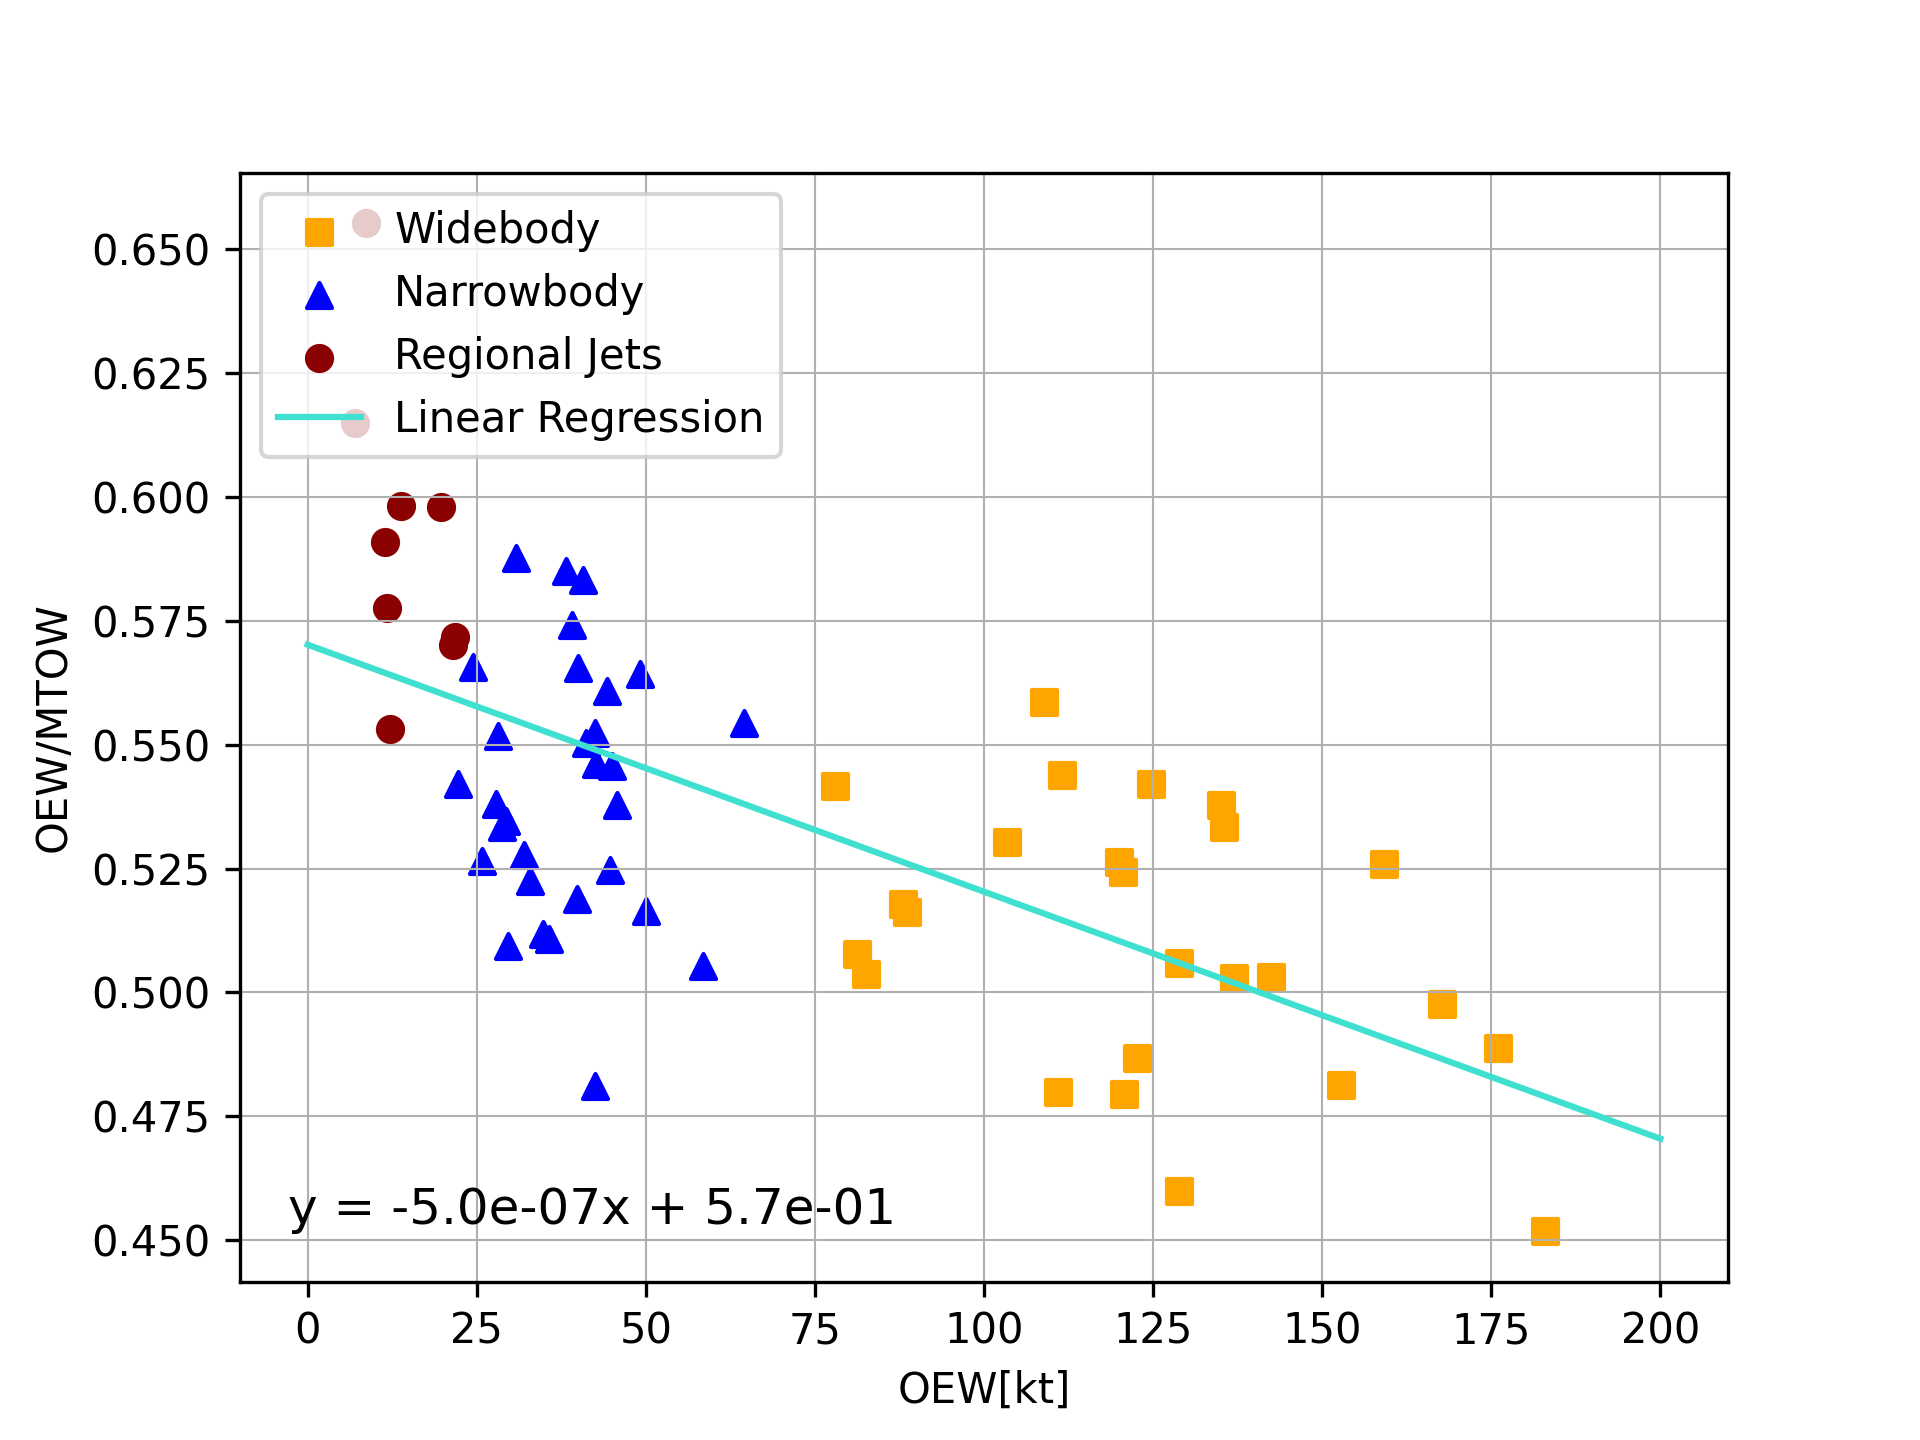
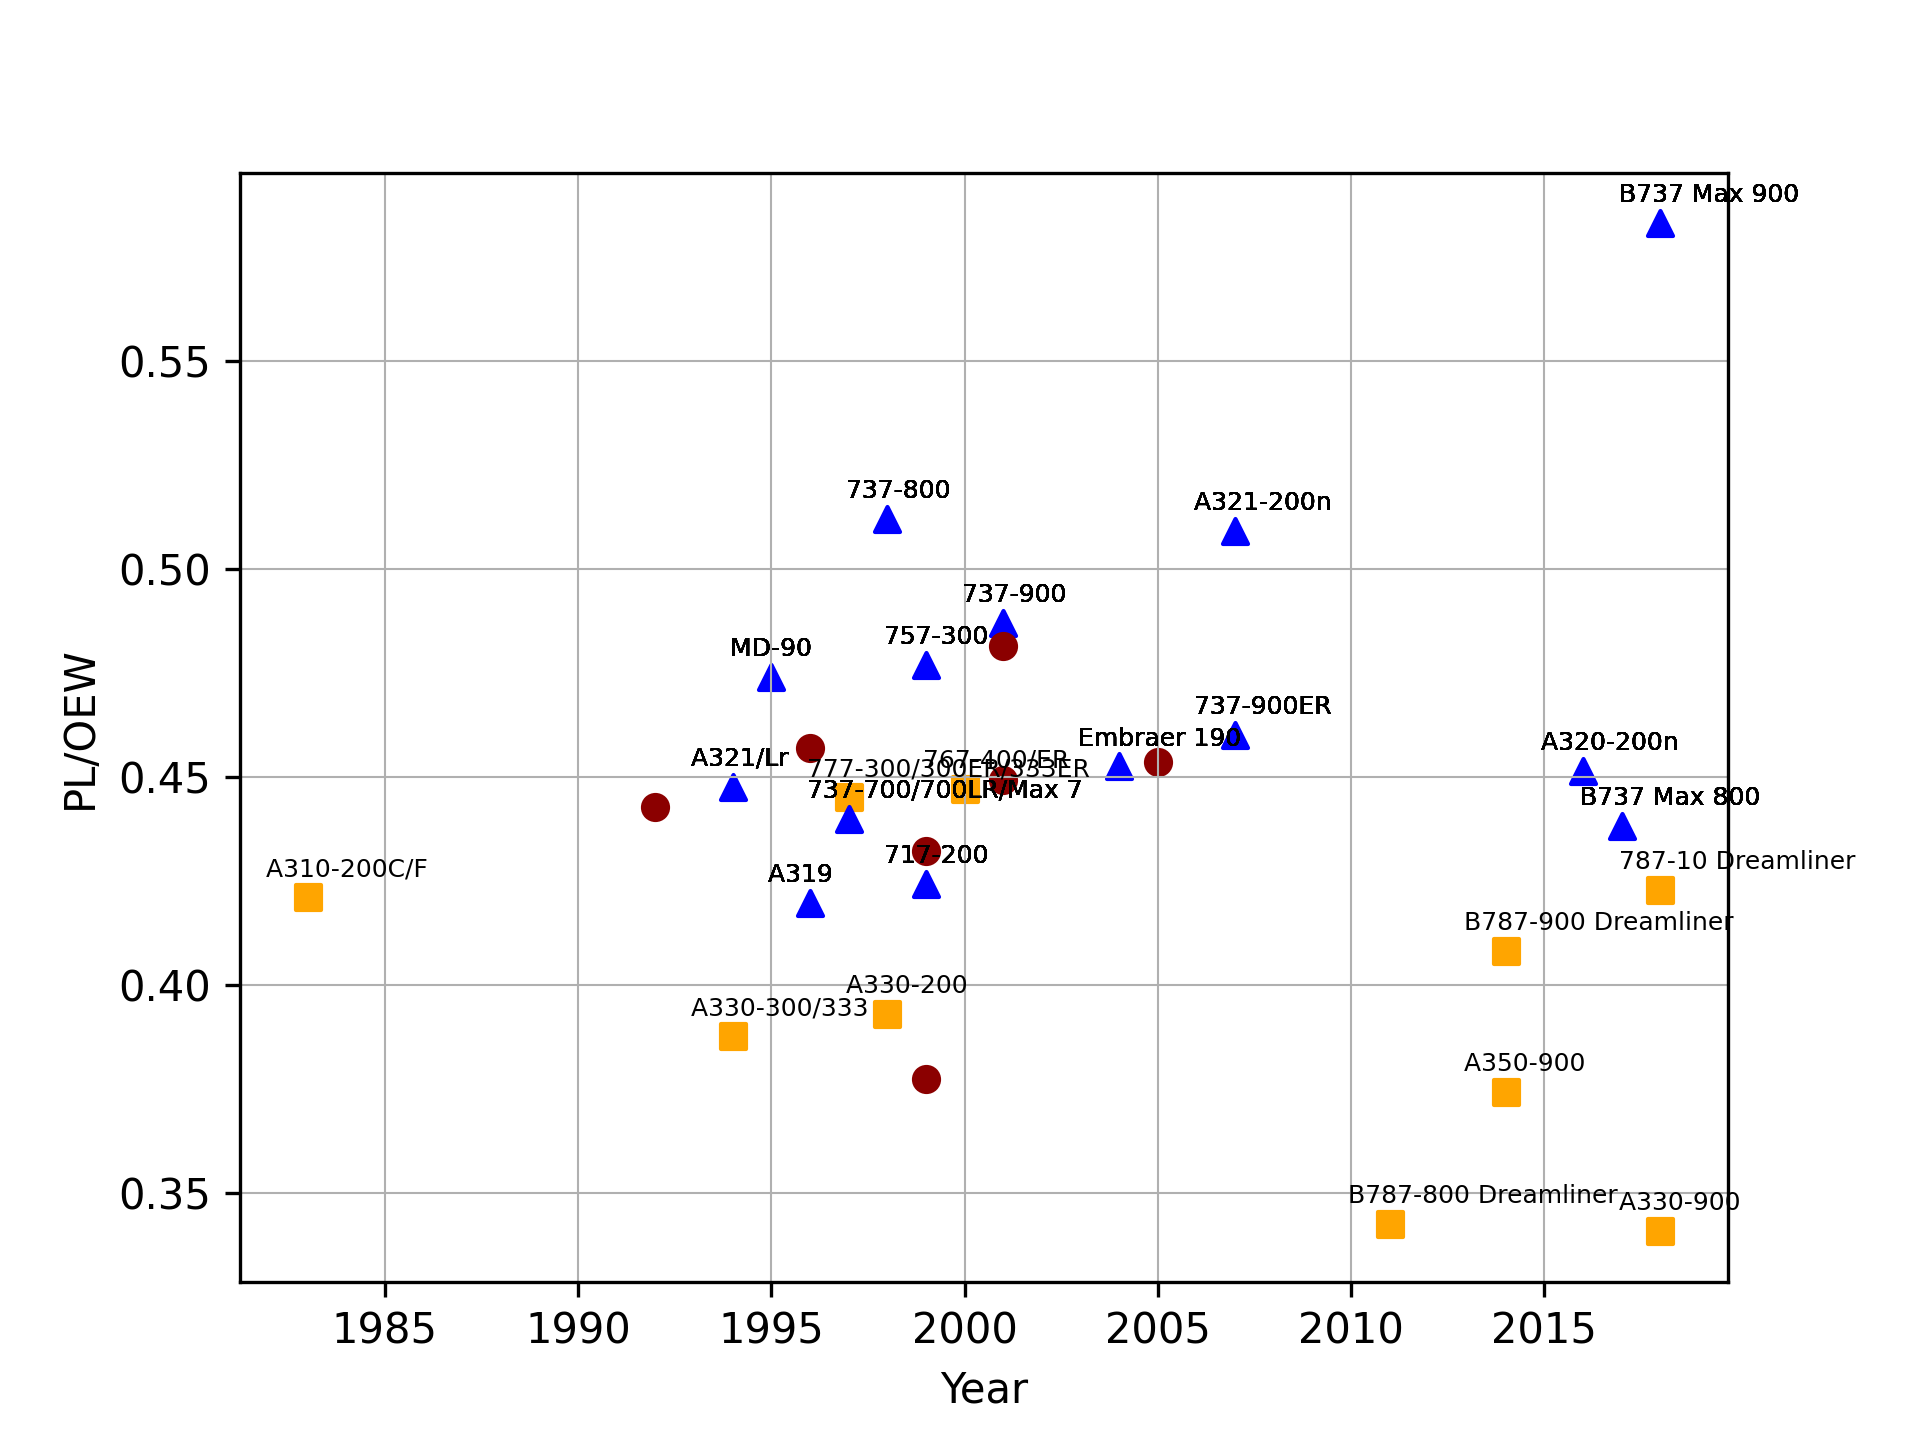
Code update, added some graphs, tried plot payload vs range, to see operability range inside payload-range diagram limit

diff --git a/structural/pl_per_oew.py b/structural/pl_per_oew.py
@@ -1,0 +1,89 @@
+import pandas as pd
+import numpy as np
+import matplotlib.pyplot as plt
+from tools import aircraft_type
+from tools import plot
+
+new_aircrafts = aircraft_type.type()
+new_aircrafts['PL/OEW'] = (new_aircrafts['MZFW']-new_aircrafts['OEW'])/new_aircrafts['OEW']
+new_aircrafts['MTOW/MZFW'] = new_aircrafts['MTOW']/new_aircrafts['MZFW']
+new_aircrafts = new_aircrafts.dropna(subset='PL/OEW')
+
+medium_aircrafts = new_aircrafts.loc[(new_aircrafts['Type']=='Narrow')]
+large_aircrafts = new_aircrafts.loc[(new_aircrafts['Type']=='Wide')]
+regional_aircrafts = new_aircrafts.loc[(new_aircrafts['Type']=='Regional')]
+
+# Add a subplot
+fig = plt.figure(dpi=300)
+y_label = 'PL/OEW'
+x_label = 'Year'
+
+ax = fig.add_subplot(1, 1, 1)
+ax.scatter(large_aircrafts['YOI'], large_aircrafts['PL/OEW'], marker='s',color='orange', label='Widebody')
+ax.scatter(medium_aircrafts['YOI'], medium_aircrafts['PL/OEW'], marker='^',color='blue', label='Narrowbody')
+ax.scatter(regional_aircrafts['YOI'], regional_aircrafts['PL/OEW'], marker='o',color='darkred', label='Regional Jets')
+
+for i, row in large_aircrafts.iterrows():
+    plt.annotate(row['Name'], (row['YOI'], row['PL/OEW']),
+                 fontsize=6, xytext=(-10, 5),
+                 textcoords='offset points')
+    for i, row in medium_aircrafts.iterrows():
+        plt.annotate(row['Name'], (row['YOI'], row['PL/OEW']),
+                     fontsize=6, xytext=(-10, 5),
+                     textcoords='offset points')
+
+plot.plot_layout(None, x_label, y_label, ax)
+
+plt.savefig('Graphs\pl_per_oew.png')
+
+plt.show()
+
+# Add a subplot
+fig = plt.figure(dpi=300)
+y_label = 'OEW/MTOW'
+x_label = 'Year'
+
+ax = fig.add_subplot(1, 1, 1)
+ax.scatter(large_aircrafts['YOI'], large_aircrafts['OEW/MTOW'], marker='s',color='orange', label='Widebody')
+ax.scatter(medium_aircrafts['YOI'], medium_aircrafts['OEW/MTOW'], marker='^',color='blue', label='Narrowbody')
+ax.scatter(regional_aircrafts['YOI'], regional_aircrafts['OEW/MTOW'], marker='o',color='darkred', label='Regional Jets')
+
+for i, row in large_aircrafts.iterrows():
+    plt.annotate(row['Name'], (row['YOI'], row['OEW/MTOW']),
+                 fontsize=6, xytext=(-10, 5),
+                 textcoords='offset points')
+    for i, row in medium_aircrafts.iterrows():
+        plt.annotate(row['Name'], (row['YOI'], row['OEW/MTOW']),
+                     fontsize=6, xytext=(-10, 5),
+                     textcoords='offset points')
+
+plot.plot_layout(None, x_label, y_label, ax)
+
+plt.savefig('Graphs\oew_per_mtow.png')
+
+plt.show()
+
+# Add a subplot
+fig = plt.figure(dpi=300)
+y_label = 'MTOW/MZFW'
+x_label = 'Year'
+
+ax = fig.add_subplot(1, 1, 1)
+ax.scatter(large_aircrafts['YOI'], large_aircrafts['MTOW/MZFW'], marker='s',color='orange', label='Widebody')
+ax.scatter(medium_aircrafts['YOI'], medium_aircrafts['MTOW/MZFW'], marker='^',color='blue', label='Narrowbody')
+ax.scatter(regional_aircrafts['YOI'], regional_aircrafts['MTOW/MZFW'], marker='o',color='darkred', label='Regional Jets')
+
+for i, row in large_aircrafts.iterrows():
+    plt.annotate(row['Name'], (row['YOI'], row['MTOW/MZFW']),
+                 fontsize=6, xytext=(-10, 5),
+                 textcoords='offset points')
+    for i, row in medium_aircrafts.iterrows():
+        plt.annotate(row['Name'], (row['YOI'], row['MTOW/MZFW']),
+                     fontsize=6, xytext=(-10, 5),
+                     textcoords='offset points')
+
+plot.plot_layout(None, x_label, y_label, ax)
+
+plt.savefig('Graphs\mtow_per_mzfw.png')
+
+plt.show()

diff --git a/other/payload.py b/other/payload.py
@@ -1,0 +1,90 @@
+import pandas as pd
+import numpy as np
+from tools import dict
+from tools import plot
+from tools import T2_preprocessing
+import matplotlib.pyplot as plt
+
+#load dictionaries
+airplanes_dict = dict.AirplaneModels().get_models()
+aircraftnames = dict.AircraftNames().get_aircraftnames()
+airplanes = airplanes_dict.keys()
+airlines = dict.USAirlines().get_airlines()
+
+
+#Data from December 2022, is also monthly available back to 1990.
+T100 = pd.read_csv(r"C:\Users\PRohr\Desktop\Masterarbeit\Data\T_T100_SEGMENT_US_CARRIER_ONLY.csv")
+AC_types = pd.read_csv(r"C:\Users\PRohr\Desktop\Masterarbeit\Data\L_AIRCRAFT_TYPE (1).csv")
+
+T100 = T100.loc[T100['CARRIER_GROUP'] == 3]
+# subgroup 1 for aircraft passenger configuration
+T100 = T100.loc[T100['AIRCRAFT_CONFIG'] == 1]
+# Use the 19 Airlines
+T100 = T100.loc[T100['UNIQUE_CARRIER_NAME'].isin(airlines)]
+T100 = pd.merge(T100, AC_types, left_on='AIRCRAFT_TYPE', right_on='Code')
+T100 = T100.loc[T100['Description'].isin(airplanes)]
+T100 = T100.loc[T100['DISTANCE']>=0]
+T100['SEATS']=T100['SEATS']/T100['DEPARTURES_PERFORMED']
+km = 1.60934
+T100['DISTANCE'] = T100['DISTANCE']*km
+T100['Calc PAYLOAD'] = T100['PASSENGERS']*100 + T100['PAYLOAD']*0.453592
+#T100 = T100.loc[T100['PAYLOAD']>=0]
+
+Boeing_737_900 = T100.loc[T100['Description'].isin(['Boeing 737-900', 'Boeing 737-900ER'])]
+kg = 0.453592
+Boeing_737_900['Calc PAYLOAD'] = Boeing_737_900['Calc PAYLOAD']*kg/Boeing_737_900['DEPARTURES_PERFORMED']
+#Boeing_737_900['DISTANCE']= Boeing_737_900['DISTANCE']/Boeing_737_900['DEPARTURES_PERFORMED']
+
+Boeing_737_900_standard= Boeing_737_900.loc[Boeing_737_900['Description']=='Boeing 737-900']
+Boeing_737_900_standard['Calc PAYLOAD'] = Boeing_737_900_standard['Calc PAYLOAD']+42901
+Boeing_737_900_longrange = Boeing_737_900.loc[Boeing_737_900['Description']=='Boeing 737-900ER']
+Boeing_737_900_longrange['Calc PAYLOAD'] = Boeing_737_900_longrange['Calc PAYLOAD']+44677
+
+payload_lr = [67721, 67721, 66678, 51700, 44677, 44677]  # payload in kg
+range_km_lr = [0, 3238, 4070, 8970, 10000, 0]  # range in km
+
+payload_sr = [62732, 62732, 58060, 42902, 42902]  # payload in kg
+range_km_sr = [0, 3700, 5180, 6600, 0]  # range in km
+# Plot the payload range diagram
+
+
+
+# Add a subplot
+fig = plt.figure(dpi=300)
+y_label = 'Payload'
+x_label = 'Range'
+
+ax = fig.add_subplot(1, 1, 1)
+ax.scatter(Boeing_737_900_standard['DISTANCE'], Boeing_737_900_standard['Calc PAYLOAD'], marker='s', s=3, color='orange', label='Boeing 737-900')
+ax.scatter(Boeing_737_900_longrange['DISTANCE'], Boeing_737_900_longrange['Calc PAYLOAD'], marker='^', s=3, color='blue', label='Boeing 737-900ER')
+ax.plot( range_km_lr, payload_lr, color = 'blue')
+ax.plot( range_km_sr, payload_sr, color = 'orange')
+plot.plot_layout(None, x_label, y_label, ax)
+
+plt.savefig('Graphs\payload_vs_range_b737.png')
+
+
+#Airbus
+a319 = T100.loc[T100['Description'].isin(['Airbus Industrie A319'])]
+kg = 0.453592
+a319['Calc PAYLOAD'] = a319['Calc PAYLOAD']*kg/a319['DEPARTURES_PERFORMED']
+
+
+# Add a subplot
+fig = plt.figure(dpi=300)
+y_label = 'Payload'
+x_label = 'Range'
+
+ax = fig.add_subplot(1, 1, 1)
+ax.scatter(a319['DISTANCE'], a319['Calc PAYLOAD'], marker='s',color='orange', label='A319')
+
+plot.plot_layout(None, x_label, y_label, ax)
+
+
+
+plt.savefig('Graphs\payload_vs_range_a319.png')
+
+plt.show()
+
+#this gives the actual number of seats across the whole us fleet!
+T100 = T100.groupby(['Description'], as_index=False).agg({'SEATS':'mean'})

diff --git a/tools/aircraft_type.py b/tools/aircraft_type.py
@@ -6,10 +6,10 @@ def type():
     # Data retrieved by me from Janes all Aircrafts and Manufacturers website.
     babikian = babikian.loc[babikian['Babikian'] == 'Yes']
     if my_value:
-        babikian = babikian[['Name', 'YOI', 'Exit Limit', 'OEW', 'MTOW', 'Type']]
+        babikian = babikian[['Name', 'YOI', 'Exit Limit', 'OEW', 'MTOW', 'Type', 'MZFW']]
         babikian['OEW/MTOW'] = babikian['OEW'] / babikian['MTOW']
     else:
-        babikian = babikian[['Name', 'YOI', 'Exit Limit', 'OEW/MTOW', 'OEW', 'Type']]
+        babikian = babikian[['Name', 'YOI', 'Exit Limit', 'OEW/MTOW', 'OEW', 'Type', 'MZFW']]
     babikian['OEW/Pax'] = babikian['OEW'] / babikian['Exit Limit']
     new_aircrafts = new_aircrafts.groupby(['Name', 'Type'], as_index=False).agg(
         {'OEW': 'mean', 'MTOW': 'mean', 'Exit Limit': 'mean', 'YOI': 'mean', 'Range': 'mean', 'MZFW':'mean'})

diff --git a/overall/update_overall_efficiency.py b/overall/update_overall_efficiency.py
@@ -106,3 +106,4 @@ overall_large.to_excel(writer, sheet_name='BABIKIAN', index=False)
 
 # Save the Excel file
 writer.save()
+
